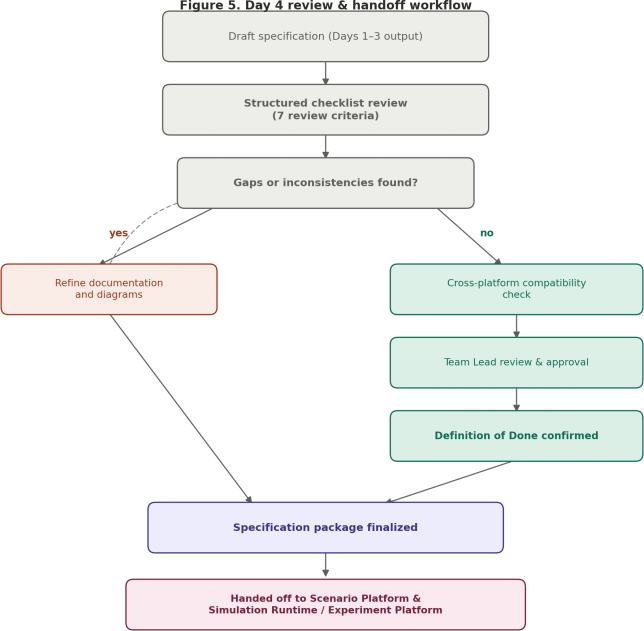
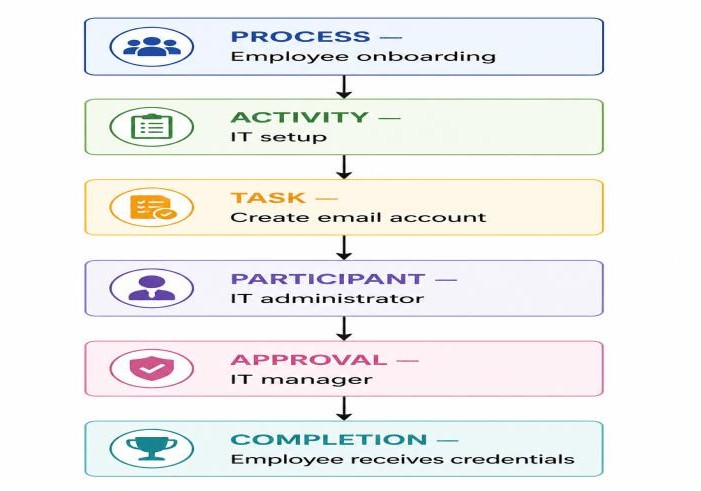
did this changes

diff --git a/docs/behavior_workflow_platform_spec.md.md b/docs/behavior_workflow_platform_spec.md.md
@@ -599,7 +599,7 @@ To make the abstractions in Sections 4.1-4.8 concrete, the table below traces a 
 
 This single trace shows how the same six constitutional layers apply whether the workflow is a hiring process, a purchase approval, or an incident escalation - only the instances change, never the structure.
 
-![Eview Handoff Workflow](../assets/enterprise_ontology_platform_spec/eview_handoff_workflow.png)
+![Review and Handoff Workflow](../assets/enterprise_ontology_platform_spec/review_and-handoff_workflow.png)
 ---
 _Employee onboarding traced through the six constitutional workflow layers._
 
